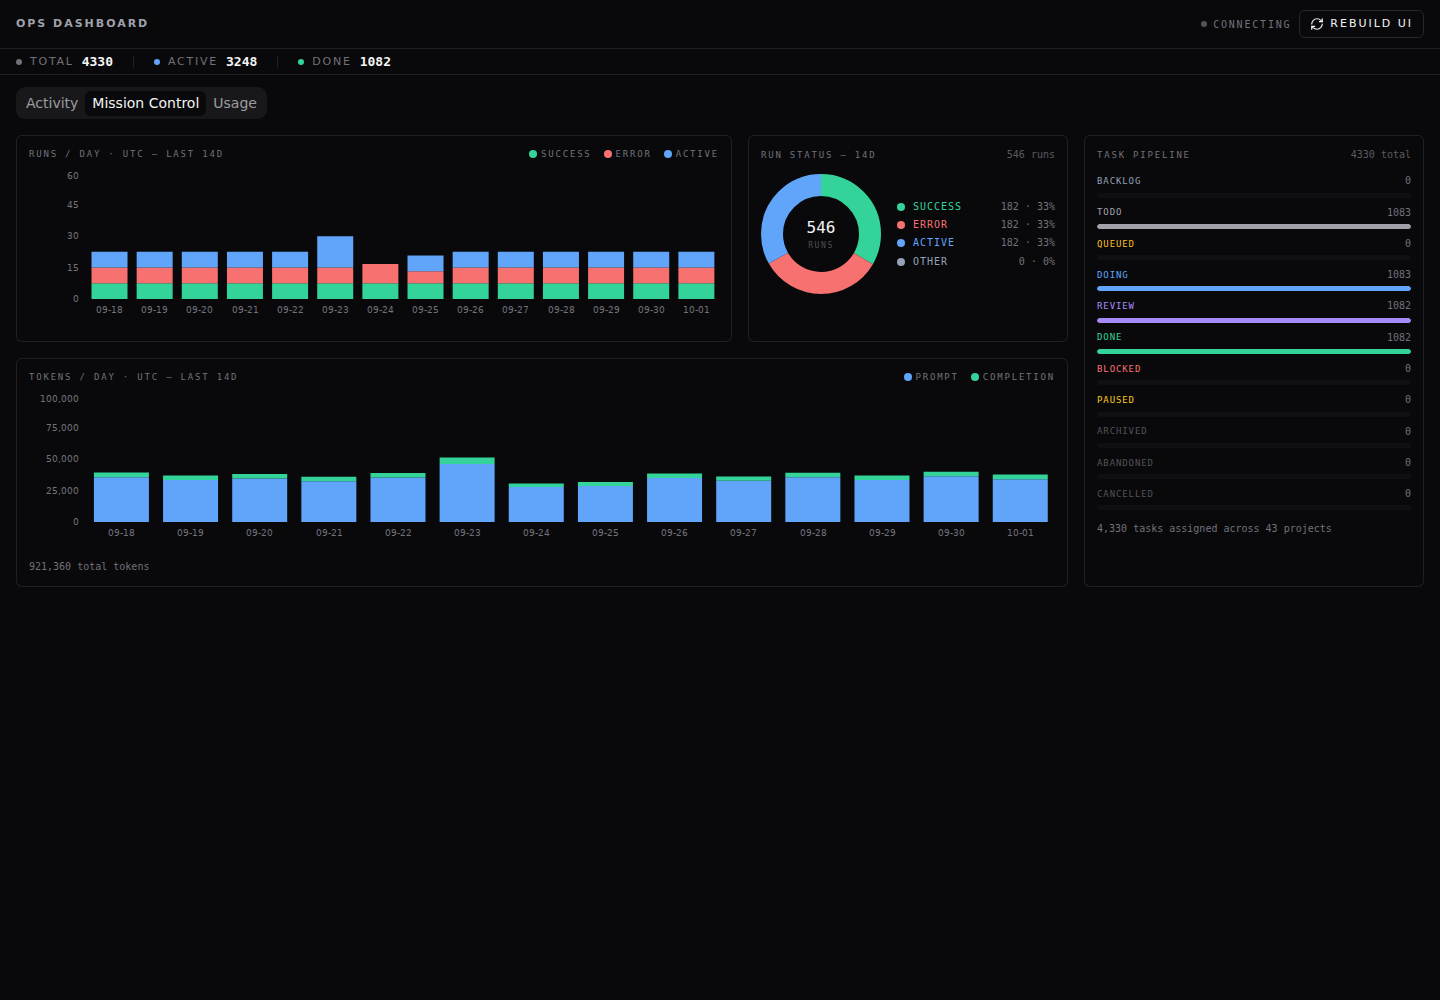
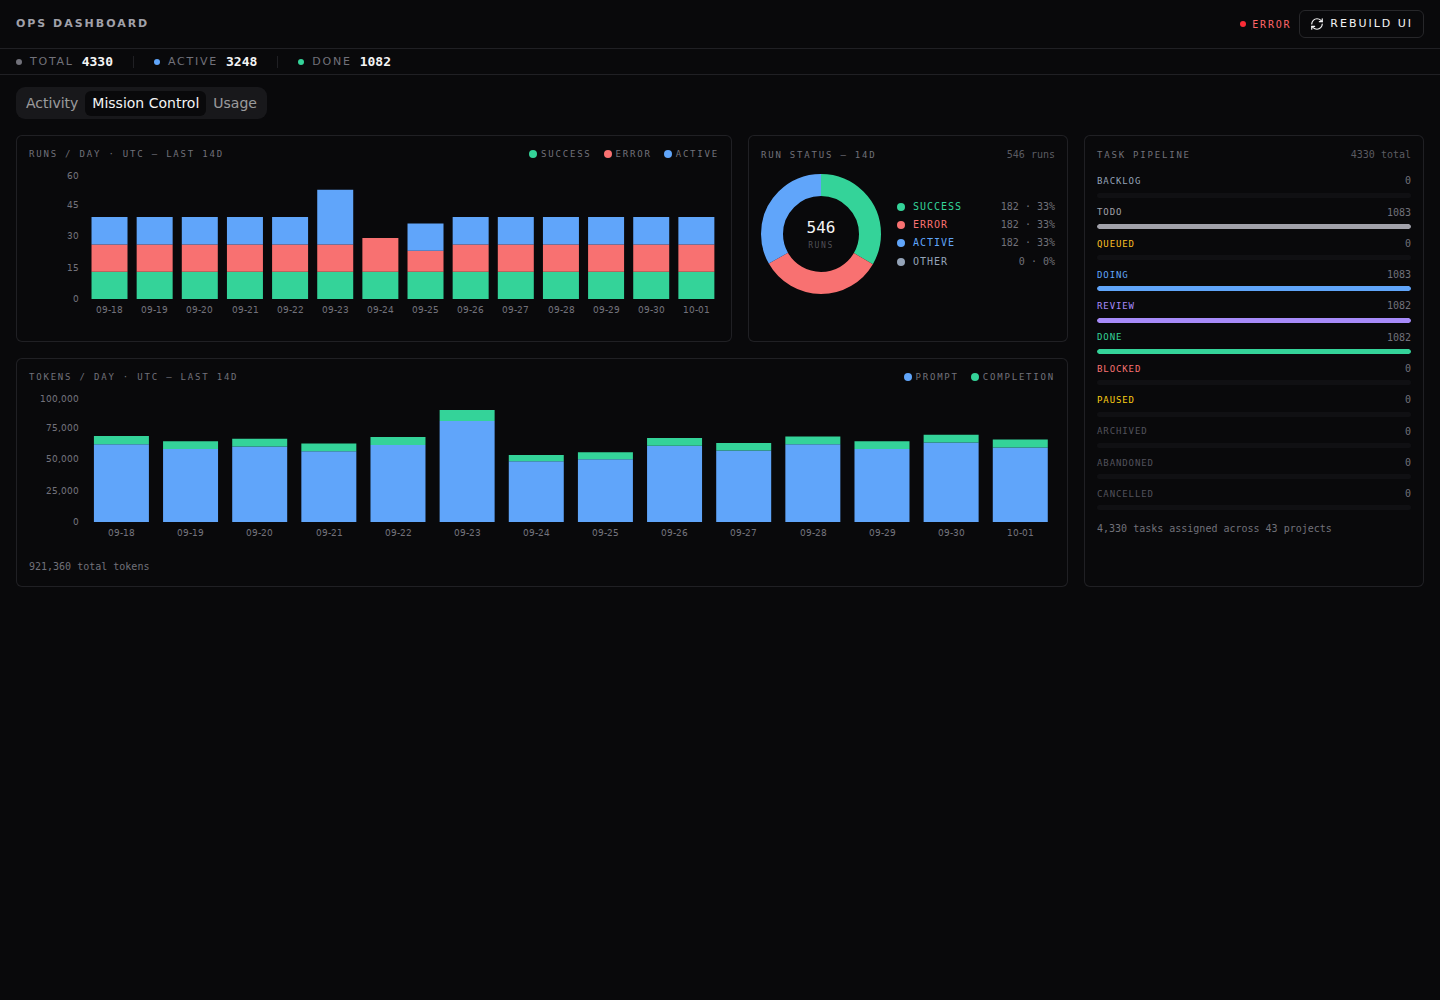
fix(gui): keep dashboard charts on the exact server window

Changed region(s): [[0.0625, 0.403, 0.75, 0.496], [0.0625, 0.186, 0.5, 0.31], [0.8438, 0.0, 0.9062, 0.031]]

diff --git a/apps/gui/src/components/widgets/run-aggregate-charts.tsx b/apps/gui/src/components/widgets/run-aggregate-charts.tsx
@@ -18,7 +18,7 @@ function BucketChart({ items, series, title, height, kind = 'bar', formatValue =
   const axes = <><XAxis dataKey="day" tick={tick} axisLine={false} tickLine={false} /><YAxis width={58} tick={tick} axisLine={false} tickLine={false} allowDecimals={false} tickFormatter={formatValue} /><Tooltip formatter={(value) => formatValue(Number(value))} contentStyle={{ background: 'var(--color-popover)', color: 'var(--color-popover-foreground)', border: '1px solid var(--color-border)', fontFamily: 'ui-monospace', fontSize: 11 }} /></>
   return <div className="flex flex-col gap-2 text-muted-foreground" aria-label={title}>
     <div className="flex items-center justify-between font-mono text-[9px] uppercase tracking-[0.2em]"><span>{title} — last 14d</span><div className="flex gap-3">{series.map((entry) => <span key={entry.key} className="inline-flex items-center gap-1"><span className="h-2 w-2 rounded-sm" style={{ backgroundColor: entry.color }} />{entry.label}</span>)}</div></div>
-    <ResponsiveContainer width="100%" height={height}>{kind === 'area' ? <AreaChart data={data} margin={{ top: 4, right: 0, left: 0, bottom: 0 }}>{axes}{series.map((entry) => <Area key={entry.key} dataKey={entry.key} name={entry.label} type="monotone" stroke={entry.color} fill={entry.color} fillOpacity={0.2} />)}</AreaChart> : <BarChart data={data} margin={{ top: 4, right: 0, left: 0, bottom: 0 }}>{axes}{series.map((entry) => <Bar key={entry.key} dataKey={entry.key} name={entry.label} stackId="series" fill={entry.color} />)}</BarChart>}</ResponsiveContainer>
+    <ResponsiveContainer width="100%" height={height}>{kind === 'area' ? <AreaChart data={data} margin={{ top: 4, right: 0, left: 0, bottom: 0 }}>{axes}{series.map((entry) => <Area key={entry.key} dataKey={entry.key} name={entry.label} isAnimationActive={false} type="monotone" stroke={entry.color} fill={entry.color} fillOpacity={0.2} />)}</AreaChart> : <BarChart data={data} margin={{ top: 4, right: 0, left: 0, bottom: 0 }}>{axes}{series.map((entry) => <Bar key={entry.key} dataKey={entry.key} name={entry.label} isAnimationActive={false} stackId="series" fill={entry.color} />)}</BarChart>}</ResponsiveContainer>
   </div>
 }
 

diff --git a/apps/gui/artifacts/CW-20261001-0575/README.md b/apps/gui/artifacts/CW-20261001-0575/README.md
@@ -1,6 +1,6 @@
 # Dashboard aggregate verification
 
-Screenshots show the real DashboardPage against Torque's HTTP handlers and an isolated in-memory SQLite database, using a temporary browser harness. No operator database, model CLI, scheduler, or production service was used.
+Screenshots show the real DashboardPage in a temporary browser harness. Network evidence was captured against Torque's HTTP handlers and an isolated in-memory SQLite database; final screenshots replay those recorded responses with the browser clock fixed to the captured window. No operator database, model CLI, scheduler, or production service was used.
 
 Fixture: 4,330 visible tasks plus 50 internal tasks, 43 projects and 4,330 runs spread across 112 days. Run cost deliberately differs from ledger cost; ledger record dates fall outside the run window.
 
@@ -8,6 +8,6 @@ The Activity, Mission Control and Usage screenshots correspond to `network.json`
 
 The visible task cards equal `/tasks/facets`: total 4,330, active 3,248, done 1,082. The 14-day series has 546 runs, 834,300 prompt tokens, 87,060 completion tokens and $30.03 ledger cost, matching `/runs/facets` for exactly the same since/until (floating point cost compared with tolerance). The activity window and rolling pulse have their own explicitly labelled windows.
 
-Browser timings are recorded in `network.json`; these are local synthetic-fixture observations, not a production latency claim. The harness omits the application shell to focus on this page. SSE is held open without generated events; burst behavior is covered by the GUI tests.
+Browser timings are recorded in `network.json`; these are local synthetic-fixture observations, not a production latency claim. The harness omits the application shell to focus on this page. The live-handler check held SSE open without generated events; the screenshot replay ends its finite SSE response and therefore shows the connection-error indicator. Burst behavior is covered by the GUI tests.
 
 The heatmap now labels authoritative **Run activity**. Its former task-update contribution came from a sampled task list and is intentionally removed per the lead's decision; an exact task-date aggregate is a separate follow-up.
